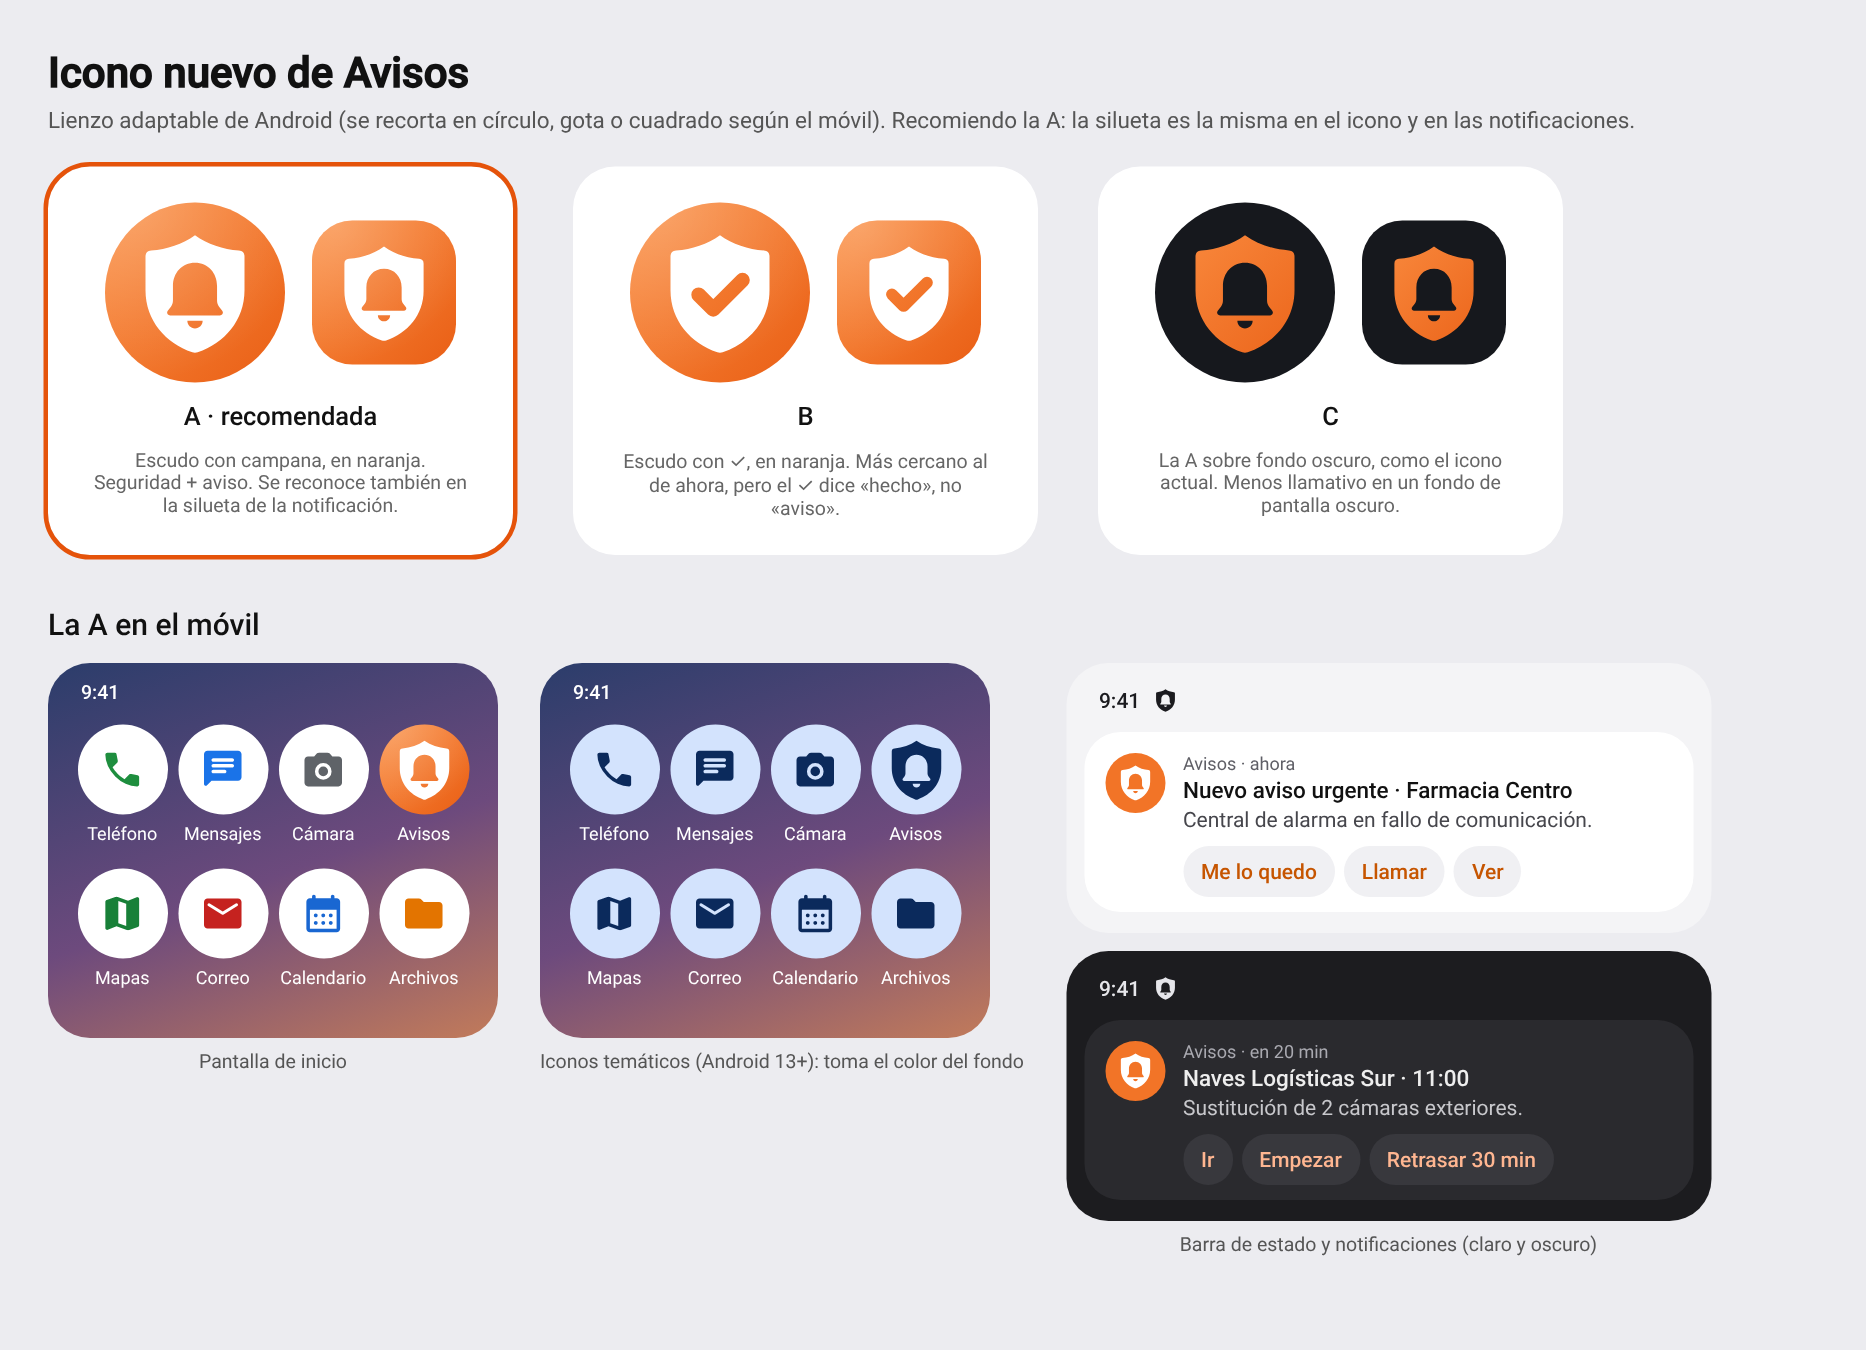
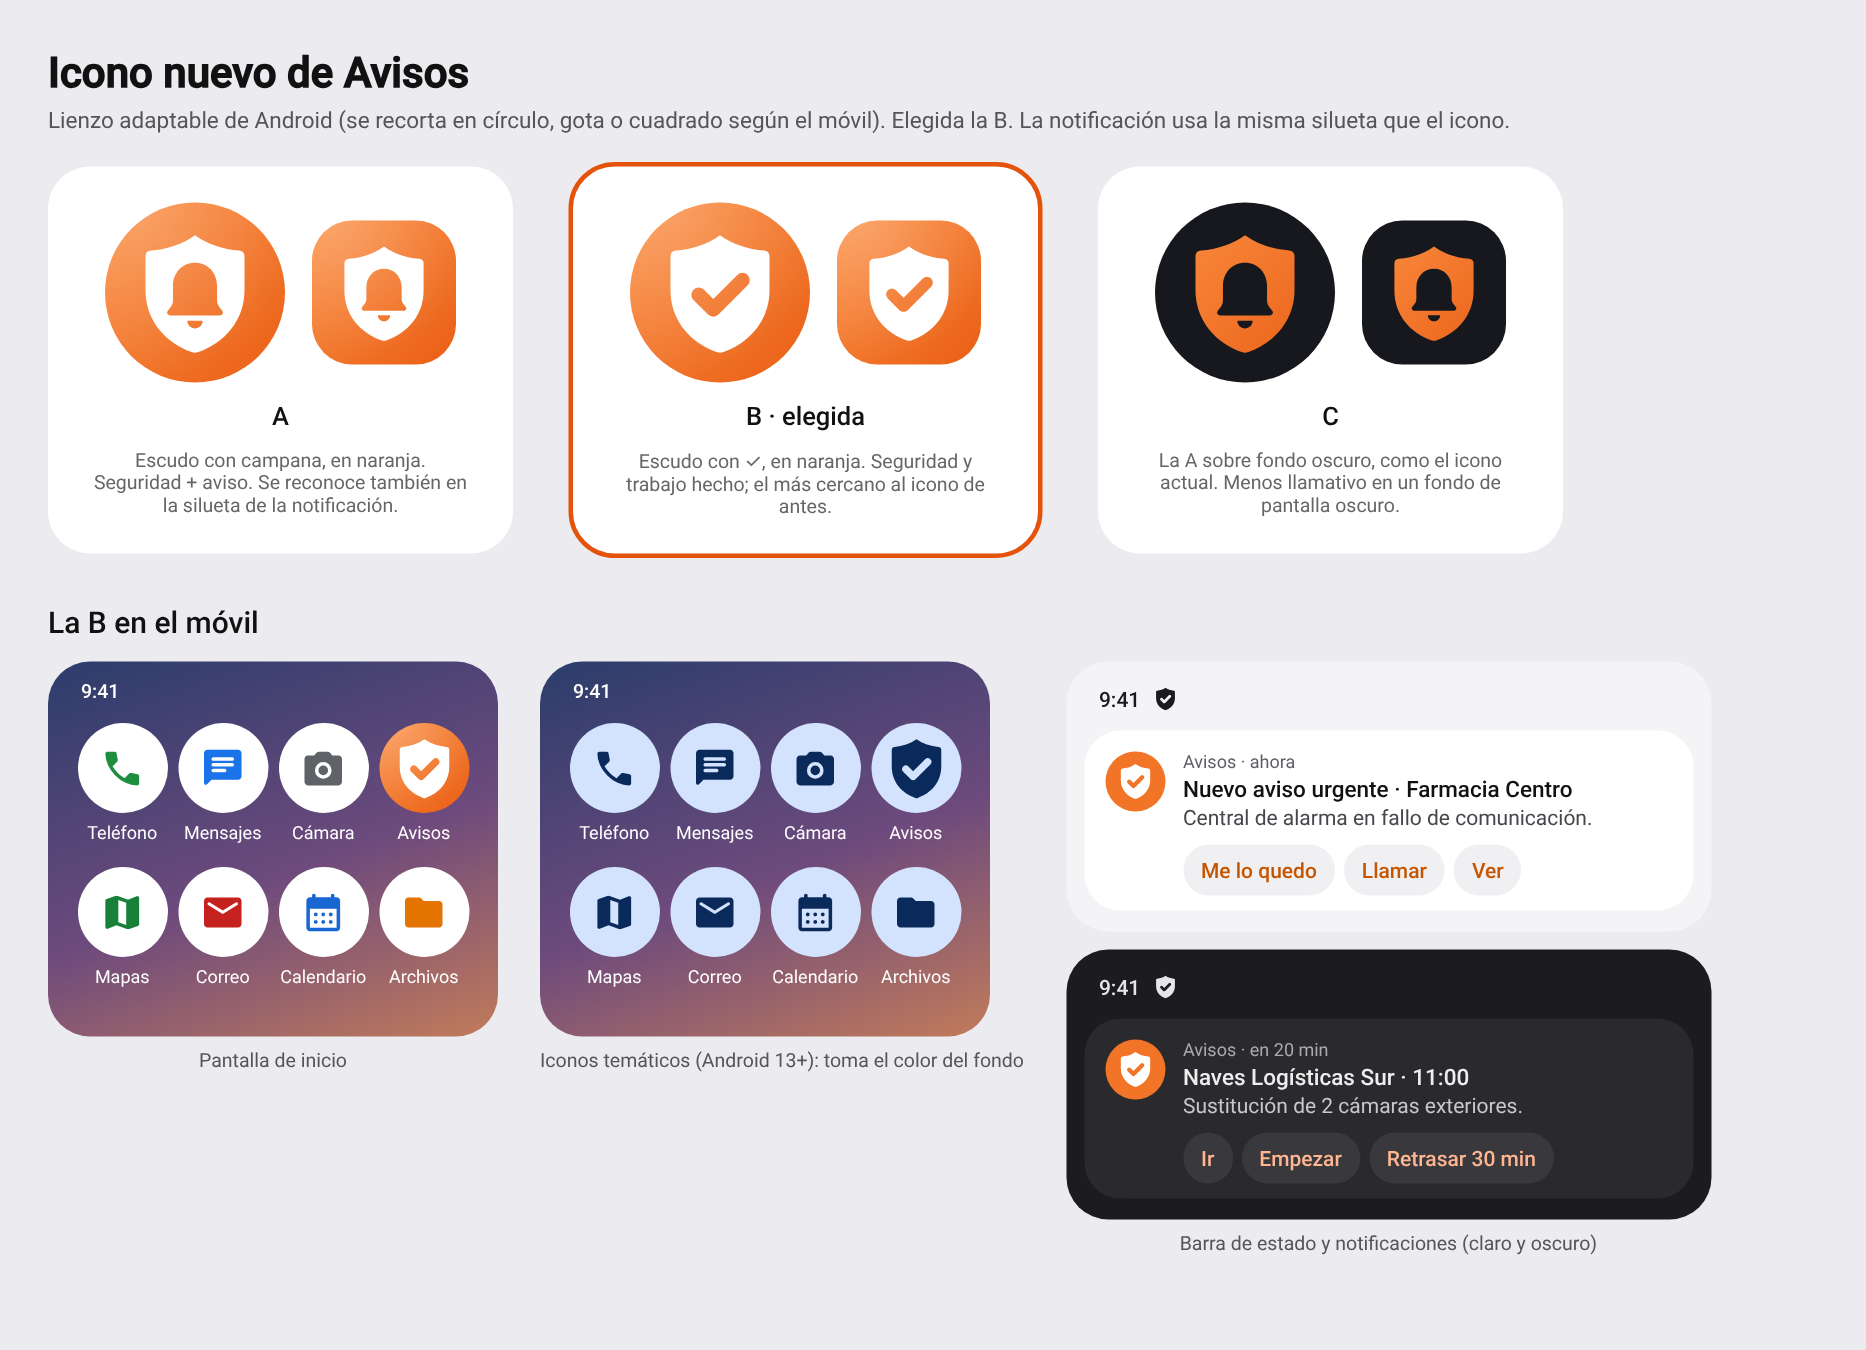
Cambia el icono a la propuesta B: escudo con ✓
El ✓ es ahora un hueco de verdad en el escudo (evenOdd) en vez de un trazo
del color del fondo: el lanzador mueve las capas del icono por separado y
el trazo se habría desplazado. Misma silueta en la notificación, el widget,
el icono temático y los PNG de Android 7.

Comprobado compilando aquí: compileReleaseJavaWithJavac y assembleRelease
pasan y la APK lleva los recursos nuevos. El CLAUDE.md cuenta dónde está el
diseño y cómo compilar en el entorno «avisos».

Claude-Session: https://claude.ai/code/session_01H6ybRy4uYivtiziKZkrmha

diff --git a/diseno/icono.js b/diseno/icono.js
@@ -13,6 +13,11 @@ var CAMPANA = 'M54,40.8 C48.2,40.8 44.2,45.3 44.2,51.2 V57.6 C44.2,58.6 43.9,59.
   'H65.1 C66.2,64.2 66.8,63 66.1,62.1 L64.7,60.3 C64.1,59.5 63.8,58.6 63.8,57.6 V51.2 C63.8,45.3 59.8,40.8 54,40.8 Z ' +
   'M50.6,66.6 H57.4 C57.4,68.5 55.9,70 54,70 C52.1,70 50.6,68.5 50.6,66.6 Z';
 var GLIFO = ESCUDO + ' ' + CAMPANA;          // con evenOdd, la campana queda hueca
+/* Contorno del ✓ (trazo de 6,5 con puntas redondas) dibujado como figura: con evenOdd queda hueco. */
+var CHECK = 'M42.202,57.298 L48.702,63.798 A3.25,3.25 0 0 0 53.298,63.798 L66.298,50.798 A3.25,3.25 0 0 0 61.702,46.202 L51,56.904 L46.798,52.702 A3.25,3.25 0 0 0 42.202,57.298 Z';
+var GLIFO_B = ESCUDO + ' ' + CHECK;
+var ELEGIDA = 'B';                            // la que va en la app
+var GLIFO_ELEGIDO = ELEGIDA === 'B' ? GLIFO_B : GLIFO;
 var ESCALA = 0.9;                             // peso visual dentro de la zona segura
 var C1 = '#FF9A4D', C2 = '#E5530A';          // degradado naranja (marca: #F27427)
 
@@ -28,7 +33,7 @@ var PROPUESTAS = {
   },
   B: function () {   // naranja con escudo y check
     return defs() + '<rect width="108" height="108" fill="url(#g)"/><rect width="108" height="108" fill="url(#h)"/>' +
-      grupo('<path fill="#fff" d="' + ESCUDO + '"/><path fill="none" stroke="url(#g)" stroke-width="6.5" stroke-linecap="round" stroke-linejoin="round" d="M44.5,55 L51,61.5 L64,48.5"/>');
+      grupo('<path fill="#fff" fill-rule="evenodd" d="' + GLIFO_B + '"/>');
   },
   C: function () {   // oscuro con escudo-campana naranja
     return defs() + '<rect width="108" height="108" fill="#16181D"/>' +
@@ -40,11 +45,11 @@ function svg(k, forma, tam) {
   return '<svg width="' + tam + '" height="' + tam + '" viewBox="18 18 72 72" style="display:block;border-radius:' + (forma === 'circulo' ? '50%' : '28%') + '">' + PROPUESTAS[k]() + '</svg>';
 }
 function silueta(tam, color) {
-  return '<svg width="' + tam + '" height="' + tam + '" viewBox="22.5 23.25 63 63"><path fill="' + color + '" fill-rule="evenodd" d="' + GLIFO + '"/></svg>';
+  return '<svg width="' + tam + '" height="' + tam + '" viewBox="22.5 23.25 63 63"><path fill="' + color + '" fill-rule="evenodd" d="' + GLIFO_ELEGIDO + '"/></svg>';
 }
 function tematico(tam) {
   return '<svg width="' + tam + '" height="' + tam + '" viewBox="18 18 72 72" style="display:block;border-radius:50%"><rect x="0" y="0" width="108" height="108" fill="#D3E3FD"/>' +
-    grupo('<path fill="#0B2A5C" fill-rule="evenodd" d="' + GLIFO + '"/>') + '</svg>';
+    grupo('<path fill="#0B2A5C" fill-rule="evenodd" d="' + GLIFO_ELEGIDO + '"/>') + '</svg>';
 }
 
 var FUENTES = '@font-face{font-family:Roboto;font-weight:400;src:url(file://' + DIR + '/node_modules/@fontsource/roboto/files/roboto-latin-400-normal.woff2)}' +
@@ -61,7 +66,7 @@ function hoja() {
   }
   function inicio(tematica) {
     var celdas = otras.slice(0, 3).map(function (o) { return app(o[0], o[1], o[2], tematica); }).join('') +
-      '<div class="app">' + (tematica ? tematico(60) : svg('A', 'circulo', 60)) + '<span>Avisos</span></div>' +
+      '<div class="app">' + (tematica ? tematico(60) : svg(ELEGIDA, 'circulo', 60)) + '<span>Avisos</span></div>' +
       otras.slice(3).map(function (o) { return app(o[0], o[1], o[2], tematica); }).join('');
     return '<div class="home"><div class="sbar"><span>9:41</span></div><div class="grid">' + celdas + '</div></div>';
   }
@@ -84,14 +89,14 @@ function hoja() {
     '.ntf .ac{grid-column:2;display:flex;gap:6px;margin-top:10px}.ntf .ac span{height:34px;border-radius:17px;background:#f0f0f3;color:#C65500;font-size:14px;font-weight:500;padding:0 12px;display:flex;align-items:center}' +
     '.dk{background:#1c1c1f}.dk .st{color:#e6e6ea}.dk .ntf{background:#2a2a2e;color:#eee}.dk .ntf p{color:#c8c8cc}.dk .ntf .ap{color:#a9a9b0}.dk .ntf .ac span{background:#38383d;color:#FFB691}' +
     '</style></head><body>' +
-    '<h1>Icono nuevo de Avisos</h1><p class="n">Lienzo adaptable de Android (se recorta en círculo, gota o cuadrado según el móvil). Recomiendo la A: la silueta es la misma en el icono y en las notificaciones.</p>' +
+    '<h1>Icono nuevo de Avisos</h1><p class="n">Lienzo adaptable de Android (se recorta en círculo, gota o cuadrado según el móvil). Elegida la B. La notificación usa la misma silueta que el icono.</p>' +
     '<div class="props">' + ['A', 'B', 'C'].map(function (k) {
       var txt = { A: 'Escudo con campana, en naranja. Seguridad + aviso. Se reconoce también en la silueta de la notificación.',
-        B: 'Escudo con ✓, en naranja. Más cercano al de ahora, pero el ✓ dice «hecho», no «aviso».',
+        B: 'Escudo con ✓, en naranja. Seguridad y trabajo hecho; el más cercano al icono de antes.',
         C: 'La A sobre fondo oscuro, como el icono actual. Menos llamativo en un fondo de pantalla oscuro.' }[k];
-      return '<div class="prop' + (k === 'A' ? ' rec' : '') + '"><div class="par">' + svg(k, 'circulo', 120) + svg(k, 'cuadrado', 96) + '</div><b>' + k + (k === 'A' ? ' · recomendada' : '') + '</b><small>' + txt + '</small></div>';
+      return '<div class="prop' + (k === ELEGIDA ? ' rec' : '') + '"><div class="par">' + svg(k, 'circulo', 120) + svg(k, 'cuadrado', 96) + '</div><b>' + k + (k === ELEGIDA ? ' · elegida' : '') + '</b><small>' + txt + '</small></div>';
     }).join('') + '</div>' +
-    '<h2>La A en el móvil</h2><div class="fila">' +
+    '<h2>La ' + ELEGIDA + ' en el móvil</h2><div class="fila">' +
     '<div>' + inicio(false) + '<div class="cap">Pantalla de inicio</div></div>' +
     '<div>' + inicio(true) + '<div class="cap">Iconos temáticos (Android 13+): toma el color del fondo</div></div>' +
     '<div><div class="panel"><div class="st">9:41 ' + silueta(18, '#1b1b1f') + '</div>' +
@@ -122,13 +127,13 @@ function xmlGlifo(comentario, color) {
   return '<?xml version="1.0" encoding="utf-8"?>\n<!-- ' + comentario + ' -->\n' +
     '<vector xmlns:android="http://schemas.android.com/apk/res/android"\n    android:width="108dp"\n    android:height="108dp"\n    android:viewportWidth="108"\n    android:viewportHeight="108">\n' +
     '    <group\n        android:pivotX="54"\n        android:pivotY="54"\n        android:scaleX="' + ESCALA + '"\n        android:scaleY="' + ESCALA + '">\n' +
-    '        <path\n            android:fillColor="' + color + '"\n            android:fillType="evenOdd"\n            android:pathData="' + GLIFO + '" />\n    </group>\n</vector>\n';
+    '        <path\n            android:fillColor="' + color + '"\n            android:fillType="evenOdd"\n            android:pathData="' + GLIFO_ELEGIDO + '" />\n    </group>\n</vector>\n';
 }
 function xmlPequeno(comentario, color, extra) {
   return '<?xml version="1.0" encoding="utf-8"?>\n<!-- ' + comentario + ' -->\n' +
     '<vector xmlns:android="http://schemas.android.com/apk/res/android"\n    android:width="24dp"\n    android:height="24dp"\n    android:viewportWidth="63"\n    android:viewportHeight="63"' + (extra || '') + '>\n' +
     '    <group\n        android:translateX="-22.5"\n        android:translateY="-23.25">\n' +
-    '        <path\n            android:fillColor="' + color + '"\n            android:fillType="evenOdd"\n            android:pathData="' + GLIFO + '" />\n    </group>\n</vector>\n';
+    '        <path\n            android:fillColor="' + color + '"\n            android:fillType="evenOdd"\n            android:pathData="' + GLIFO_ELEGIDO + '" />\n    </group>\n</vector>\n';
 }
 
 async function main() {
@@ -136,10 +141,10 @@ async function main() {
   fs.mkdirSync(path.join(res, 'drawable'), { recursive: true });
   fs.mkdirSync(path.join(res, 'mipmap-xxhdpi'), { recursive: true });
   fs.writeFileSync(path.join(res, 'drawable', 'ic_launcher_background.xml'), xmlFondo());
-  fs.writeFileSync(path.join(res, 'drawable', 'ic_launcher_foreground.xml'), xmlGlifo('Escudo con campana: la campana queda hueca (evenOdd) y deja ver el fondo.', '#FFFFFF'));
+  fs.writeFileSync(path.join(res, 'drawable', 'ic_launcher_foreground.xml'), xmlGlifo('Escudo con ✓: el ✓ queda hueco (evenOdd) y deja ver el fondo.', '#FFFFFF'));
   fs.writeFileSync(path.join(res, 'drawable', 'ic_launcher_monochrome.xml'), xmlGlifo('Capa para los iconos temáticos (Android 13+): el sistema la tiñe.', '#FFFFFF'));
   fs.writeFileSync(path.join(res, 'drawable', 'ic_notificacion.xml'), xmlPequeno('Icono de notificación: la misma silueta. Android la pinta de un color; el naranja lo pone setColor.', '#FFFFFF', '\n    android:tint="#FFFFFF"'));
-  fs.writeFileSync(path.join(res, 'drawable', 'ic_escudo.xml'), xmlPequeno('Escudo con campana en naranja, para el widget.', '#FFF27427'));
+  fs.writeFileSync(path.join(res, 'drawable', 'ic_escudo.xml'), xmlPequeno('Escudo con ✓ en naranja, para el widget.', '#FFF27427'));
 
   var b = await chromium.launch();
   var p = await b.newPage({ viewport: { width: 1244, height: 900 }, deviceScaleFactor: 1.5 });
@@ -154,7 +159,7 @@ async function main() {
   for (var forma of [['ic_launcher', '22%'], ['ic_launcher_round', '50%']]) {
     var q = await b.newPage({ viewport: { width: 192, height: 192 }, deviceScaleFactor: 1 });
     await q.setContent('<body style="margin:0;background:transparent"><div style="width:176px;height:176px;margin:8px;border-radius:' + forma[1] + ';overflow:hidden;box-shadow:0 2px 4px rgba(0,0,0,.25)">' +
-      '<svg width="176" height="176" viewBox="18 18 72 72" style="display:block">' + PROPUESTAS.A() + '</svg></div></body>');
+      '<svg width="176" height="176" viewBox="18 18 72 72" style="display:block">' + PROPUESTAS[ELEGIDA]() + '</svg></div></body>');
     await q.screenshot({ path: path.join(res, 'mipmap-xxhdpi', forma[0] + '.png'), omitBackground: true });
     await q.close();
   }

diff --git a/diseno/maquetas.js b/diseno/maquetas.js
@@ -171,7 +171,7 @@ body{font-family:Roboto,sans-serif;background:var(--page);color:var(--on-surface
 `;
 
 CSS += `.nav{left:16px;right:auto;bottom:34px;height:68px;padding:0 6px;border-radius:34px;background:var(--surface-container-lowest);box-shadow:0 2px 6px rgba(0,0,0,.14),0 8px 24px rgba(0,0,0,.14)}.dark .nav{background:var(--surface-container-highest);box-shadow:0 2px 6px rgba(0,0,0,.5),0 8px 24px rgba(0,0,0,.45)}.nav.centro{left:50%;transform:translateX(-50%)}.nav a{flex:none;width:72px;padding-top:0;justify-content:center;gap:3px}.nav .ind{width:56px;height:30px;border-radius:15px}.nav .badge{left:30px}.fabr{position:absolute;right:16px;bottom:36px;width:64px;height:64px;border-radius:22px;background:var(--primary);color:var(--on-primary);display:grid;place-items:center;z-index:6;box-shadow:0 2px 6px rgba(0,0,0,.18),0 8px 20px rgba(0,0,0,.18)}.fabr .i{font-size:30px}.snack{bottom:116px}.ntf{position:relative;padding-left:68px}.ntf .ap .ic{position:absolute;left:14px;top:16px;width:40px;height:40px;border-radius:20px;background:#F27427;color:#fff}`;
-var GLIFO = 'M54,28.5 C59.5,32.5 66.5,34.8 73.5,35.3 Q76,35.5 76,38 V53 C76,66.5 67,76.5 55.2,80.6 Q54,81 52.8,80.6 C41,76.5 32,66.5 32,53 V38 Q32,35.5 34.5,35.3 C41.5,34.8 48.5,32.5 54,28.5 Z M54,40.8 C48.2,40.8 44.2,45.3 44.2,51.2 V57.6 C44.2,58.6 43.9,59.5 43.3,60.3 L41.9,62.1 C41.2,63 41.8,64.2 42.9,64.2 H65.1 C66.2,64.2 66.8,63 66.1,62.1 L64.7,60.3 C64.1,59.5 63.8,58.6 63.8,57.6 V51.2 C63.8,45.3 59.8,40.8 54,40.8 Z M50.6,66.6 H57.4 C57.4,68.5 55.9,70 54,70 C52.1,70 50.6,68.5 50.6,66.6 Z';
+var GLIFO = 'M54,28.5 C59.5,32.5 66.5,34.8 73.5,35.3 Q76,35.5 76,38 V53 C76,66.5 67,76.5 55.2,80.6 Q54,81 52.8,80.6 C41,76.5 32,66.5 32,53 V38 Q32,35.5 34.5,35.3 C41.5,34.8 48.5,32.5 54,28.5 Z M42.202,57.298 L48.702,63.798 A3.25,3.25 0 0 0 53.298,63.798 L66.298,50.798 A3.25,3.25 0 0 0 61.702,46.202 L51,56.904 L46.798,52.702 A3.25,3.25 0 0 0 42.202,57.298 Z';
 function glifo(t) { return '<svg width="' + t + '" height="' + t + '" viewBox="22.5 23.25 63 63"><path fill="#fff" fill-rule="evenodd" d="' + GLIFO + '"/></svg>'; }
 var E = {
   pendiente: ['radio_button_unchecked', 'Pendiente', 'Sin fecha o sin técnico'],

diff --git a/CLAUDE.md b/CLAUDE.md
@@ -14,6 +14,13 @@ móvil **Android**, instalada con la APK de este repo.
   servicio de correo, el widget y las notificaciones (Java en `android/`) se
   aprovechan.
 - Los avisos de la APK web actual no se migran: el usuario acepta perderlos.
+- El diseño aprobado está en `diseno/`: maquetas Material 3 Expressive con
+  menú flotante, paleta, icono (escudo con ✓) y los criterios de uso que tiene
+  que cumplir. Léelo antes de escribir una pantalla.
+- Se compila aquí: el entorno «avisos» instala el Android SDK al arrancar
+  (`/root/android-sdk`, y escribe `android/local.properties`). Luego
+  `cd android && ./gradlew assembleRelease`. El workflow `apk.yml` además
+  publica la release `apk`: no lo lances sin que el usuario lo pida.
 - Mientras dure la reescritura, lo que se cuenta abajo sobre la web y el diseño
   de iPhone describe el código que hay, no el que se quiere. No añadas nada
   nuevo de iOS (Liquid Glass, Atajos, barra de estado de Safari, etc.).

diff --git a/diseno/README.md b/diseno/README.md
@@ -30,11 +30,13 @@ y el icono. Las capturas están en `capturas/`.
      pastilla de color, en una hoja.
   5. Lo urgente te encuentra: notificaciones con acciones (Me lo quedo,
      Llamar, Ver; Ir, Empezar, Retrasar).
-- **Icono**: escudo con campana, blanco sobre degradado naranja (propuesta A
-  de `capturas/icono.png`). La notificación usa la misma silueta: Android la
+- **Icono**: escudo blanco con ✓ hueco sobre degradado naranja (propuesta B
+  de `capturas/icono.png`, elegida por el usuario). El ✓ es un hueco de verdad
+  (`evenOdd`), no un trazo del color del fondo: el lanzador mueve las capas por
+  separado y se notaría. La notificación usa la misma silueta: Android la
   pinta de un color y el naranja lo pone `setColor`. Ya está en
   `android/app/src/main/res` (adaptable, temático, notificación, widget y PNG
-  para Android 7).
+  para Android 7). Para cambiar de propuesta: `ELEGIDA` en `icono.js`.
 
 ## Volver a generarlas
 
